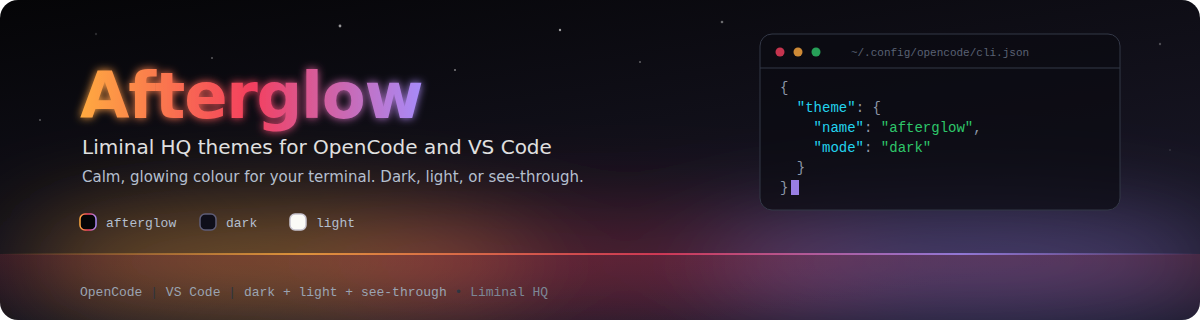
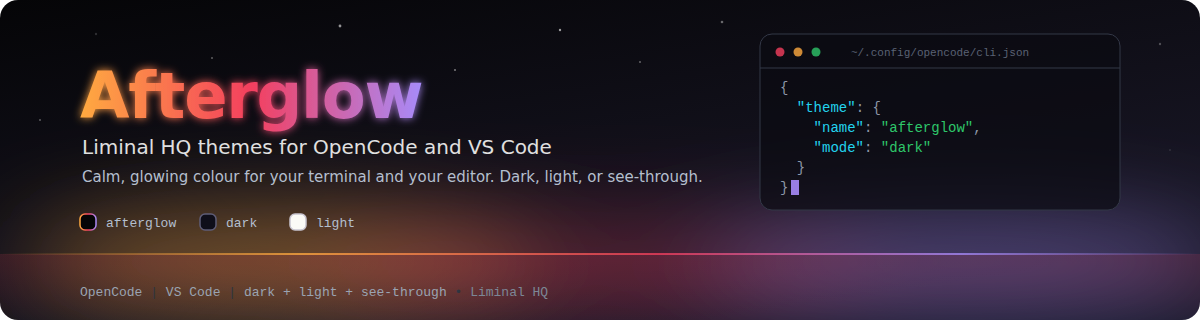
docs: correct the contrast claims and refresh the hero tagline
- **Contrast wording.** The READMEs and `docs/vscode-theme.md` now say what is checked: 4.5:1 for
  text, syntax and the main UI pairs, and a 3:1 floor for deliberately dim elements.
- **Hero.** The tagline and the README alt text now cover the editor as well as the terminal, and
  the Marketplace banner is re-rendered from the updated hero.
- **Marketplace README.** Describes the palette rather than how it was gathered.

Changed region(s): [[0.3083, 0.5312, 0.5858, 0.5938]]

diff --git a/docs/vscode-theme.md b/docs/vscode-theme.md
@@ -22,6 +22,7 @@ A few decisions worth knowing about:
 - Dark+ and Light+ disagree about some scopes (tag names are blue in Dark+ and maroon in Light+). Afterglow pins these by scope in `scopeRoles` so every variant treats them the same way.
 - The status bar uses a dark tint of the theme's accent (`accent.800`) rather than a saturated block, so it matches the rest of the chrome.
 - VS Code themes cannot make the window transparent, so there is no see-through variant. `Afterglow` is the closest, with the void as a solid background.
+- Elements that are meant to recede (disabled, ghost and ignored text, inactive tabs) stay dim but never drop below 3:1. Anything meant to be read, such as inlay hints, peek descriptions and preformatted text, holds 4.5:1.
 - Light terminal colours are chosen for 4.5:1 contrast on paper, so ANSI "white" is a readable grey rather than a near-white.
 
 ## Validation
@@ -32,7 +33,7 @@ A few decisions worth knowing about:
 - Every colour key is a real VS Code colour key, checked against `scripts/vscode-colour-keys.json`, which was extracted from the [theme colour reference](https://code.visualstudio.com/api/references/theme-color). Refresh it from the `microsoft/vscode-docs` repository when VS Code adds keys.
 - Every value is a 6 or 8 digit hex colour.
 - The `tokenColors` rules have the same scopes, in the same order, as Dark+ and Light+.
-- Syntax colours, text, and about 60 foreground and background pairs (tabs, side bar, status bar, buttons, inputs, lists, menus, terminal colours and more) meet their contrast ratios.
+- Syntax colours, text and about 55 foreground and background pairs (tabs, side bar, status bar, buttons, inputs, lists, menus, terminal colours, and text over translucent selection and find highlights) meet 4.5:1. Translucent colours are composited over their surface before the ratio is measured. About 6 deliberately dim pairs (disabled, ghost and ignored text, and inactive tabs and title bar) are held to a 3:1 floor.
 - `vscode/package.json` lists every theme and has the same version as the root `package.json`.
 
 The validator checks structure and contrast, not appearance. To look at the syntax colours without opening VS Code, render samples through the theme files with [Shiki](https://shiki.style), which uses the same TextMate engine, and screenshot the result. Check the editor chrome in VS Code itself.

diff --git a/README.md b/README.md
@@ -1,7 +1,7 @@
 # Afterglow
 
 <p align="center">
-  <img src="assets/hero.svg" alt="Afterglow — Liminal HQ themes for OpenCode" width="100%">
+  <img src="assets/hero.svg" alt="Afterglow — Liminal HQ themes for OpenCode and VS Code" width="100%">
 </p>
 
 <p align="center">
@@ -110,7 +110,7 @@ bun run bundle           # build the release assets (including the .vsix) into d
 - `scripts/palette.mjs` holds the brand colours, the deeper light-mode variants and the neutral ramps.
 - `scripts/build.mjs` turns them into OpenCode V2 themes. Each hue is a nine-step ramp with the brand colour on step `200`, matching how OpenCode's built-in themes are laid out.
 - `scripts/build-vscode.mjs` builds the VS Code themes from the same palette, using the Dark+ and Light+ scope rules in `vscode/upstream/` as the structural base.
-- `scripts/validate-themes.mjs` mirrors the V2 theme schema bundled in OpenCode (the published JSON schema for V2 themes is not available yet), resolves every reference, and checks the contrast of text, syntax and Markdown colours. `scripts/validate-vscode.mjs` does the same for the VS Code themes and also checks every colour key against VS Code's published list.
+- `scripts/validate-themes.mjs` mirrors the V2 theme schema bundled in OpenCode (the published JSON schema for V2 themes is not available yet), resolves every reference, and checks the contrast of text, syntax and Markdown colours. `scripts/validate-vscode.mjs` does the same for the VS Code themes (about 90 foreground and background pairs, with alpha composited first) and also checks every colour key against VS Code's published list.
 
 CI runs the format check, the licence-header check, the theme build and validation (including a check that the committed JSON matches what the palette generates), Markdown and workflow linting, and a zizmor security audit of the workflows.
 

diff --git a/vscode/README.md b/vscode/README.md
@@ -18,11 +18,11 @@ Pick one with **Preferences: Color Theme** (`Ctrl+K Ctrl+T`).
 
 The syntax colouring keeps every TextMate scope rule and semantic token override from VS Code's built-in Dark+ and Light+ themes, so languages colour the way you expect. Each colour is then replaced with the Afterglow palette: purple keywords, rose control flow and tags, orange functions, green strings, yellow numbers, cyan types and blue constants. The editor, side bar, tabs, status bar, panels, terminal and every other surface are coloured deliberately rather than inherited from the defaults.
 
-Text, syntax and UI colours are checked in CI for at least 4.5:1 contrast against the surface they sit on.
+Text, syntax and the main UI colours are checked in CI for at least 4.5:1 contrast against the surface they sit on. Deliberately dim elements, such as disabled and ghost text, inactive tabs and ignored files, are held to 3:1.
 
-## Where the colours come from
+## The palette
 
-The palette was gathered by scanning the Liminal HQ repositories for the colours that recur: a calm near-black background, a warm orange-to-rose-to-purple family of accents, and cool cyan and blue for information.
+A calm near-black background, a warm orange-to-rose-to-purple family of accents, and cool cyan and blue for information: the colours that recur across the Liminal HQ projects.
 
 ## Feedback
 
